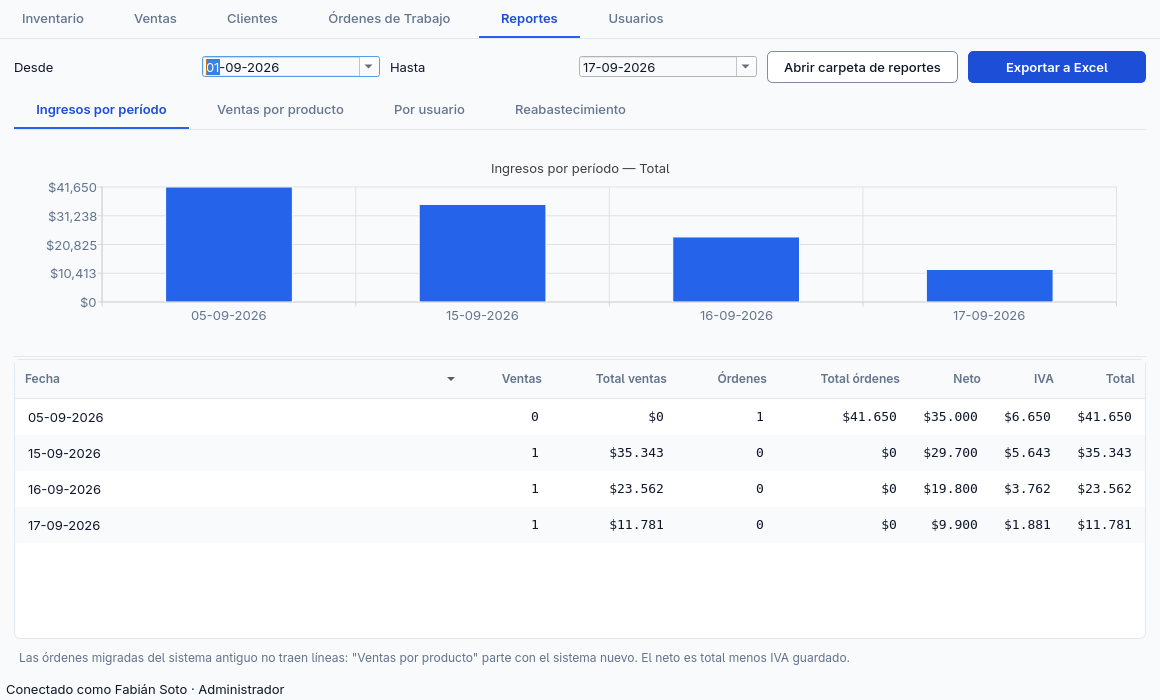
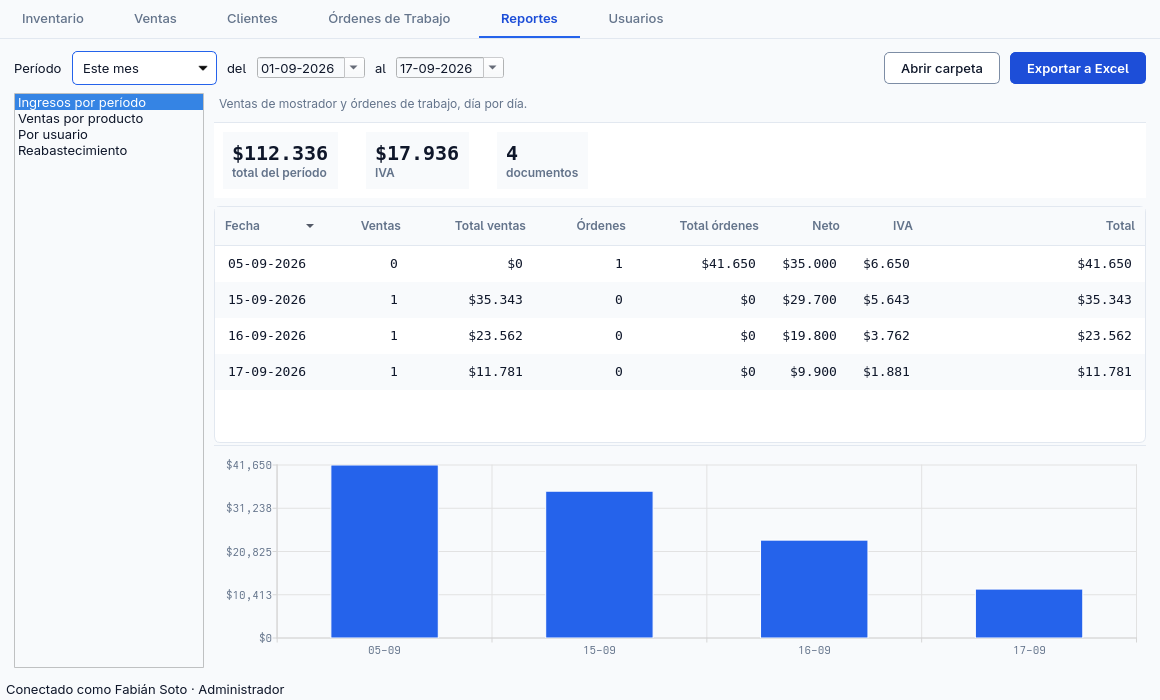
docs: bring the user manual up to the screens that exist
The delivered manual described a WhatsApp button on the Clientes tab
that no longer exists, and said the "Pagada" checkbox was all there was
to paying an order. Its screenshots were older than both changes.

- "Escribir por WhatsApp" moves from Clientes to Órdenes and covers the
  two places the button lives, the templates, and that it does not send:
  it writes the message and the operator presses send.
- "Descuento, folio y pago" explains the deposit and where the balance
  is charged; the history section explains the Abonada state; the detail
  section explains "Registrar pago".
- Inventario mentions the valuation at cost and who sees it.
- FAQ: the only thing a saved order takes is a payment.

capturas.py was broken since the Reportes rework (ReportesWidget has a
list, not tabs), so it died before the last six images. It now also
seeds paid, partly paid and unpaid orders, which is what the manual
shows. The PDFs are not rebuilt in this commit.

diff --git a/docs/manuales/manual-usuario.tex b/docs/manuales/manual-usuario.tex
@@ -76,6 +76,13 @@ superior: sirve el nombre, la marca o la categoría, sin importar tildes ni
 mayúsculas. La casilla \textbf{Solo stock crítico} deja a la vista los productos
 que están en su mínimo o por debajo.
 
+Al pie de la pantalla, el resumen dice cuántos productos hay a la vista y
+cuántos están bajo su mínimo. Para el supervisor y el administrador dice además
+\textbf{cuánto vale a precio costo lo que está listado}: sin filtro es la bodega
+entera y, con una búsqueda puesta, lo que vale esa marca o esa categoría. Va a
+costo porque es la plata que está inmovilizada en la repisa, no lo que se va a
+facturar por ella.
+
 Al elegir un producto, abajo aparece su \textbf{Kardex}: cada entrada, cada
 salida por venta o por orden, con la fecha, la cantidad, el saldo que quedó y
 quién lo hizo. Ese historial no se puede editar —es el registro auditable del
@@ -181,12 +188,6 @@ Cada vehículo cuelga de un cliente y se identifica por su patente, que es únic
 en todo el sistema. Además de marca, modelo y año, la ficha guarda el tipo, la
 versión, el VIN y el número de motor, que es lo que traía el sistema anterior.
 
-\subsection{Escribir por WhatsApp}
-
-Con un cliente elegido, el botón \textbf{WhatsApp} abre la conversación con su
-teléfono, para avisarle que el auto está listo. El botón está apagado si el
-cliente no tiene un número que parezca un celular chileno.
-
 \section{Órdenes de trabajo}
 
 \pantalla{orden}{Orden en proceso. La tarjeta superior dice de qué vehículo se
@@ -224,7 +225,13 @@ calcula sobre lo que efectivamente se cobra, ya descontado.
 
 El \textbf{folio de Mercado Público} se llena solo en las órdenes
 institucionales; es lo que después permite separarlas de los clientes normales
-en el historial. La casilla \textbf{Pagada} deja constancia del pago.
+en el historial.
+
+El pago se anota al cerrar la orden. Si el cliente paga todo, se marca la
+casilla \textbf{Pagada}. Si paga una parte —un abono al dejar el auto y el resto
+al retirarlo— se escribe lo que dejó en \textbf{Abono}, que no acepta más que el
+total de la orden. El saldo se cobra después, desde el detalle de la orden en el
+historial; no hay que anotarlo en ninguna parte ni llevar la cuenta a mano.
 
 \subsection{Historial y PDF para el cliente}
 
@@ -235,11 +242,44 @@ El historial se busca por número de orden, patente o cliente, y el filtro de la
 derecha separa \emph{Mercado Público} de \emph{Clientes}. Con doble clic se abre
 el detalle de la orden.
 
+La columna \textbf{Estado} dice cómo va el cobro: \emph{Pagada},
+\emph{No pagada}, o \emph{Abonada} cuando quedó a medio pagar —poniendo el
+cursor encima aparece cuánto abonó y cuánto debe.
+
 \dialogo{dialogo_detalle_orden}{Detalle de una orden guardada.}
 
 Desde ahí, \textbf{Exportar PDF} genera el documento para el cliente, con el
 desglose de insumos y servicios, el descuento, el IVA y el total. Se guarda en
 \texttt{Documentos\textbackslash Lubri-Express\textbackslash Órdenes}.
+
+\textbf{Registrar pago} anota lo que el cliente paga ahora. Viene propuesto el
+saldo completo, que es el caso de todos los días —viene a buscar el auto y paga
+lo que debe—, y se puede escribir menos si deja otro abono. Los pagos se suman y
+no se corrigen: la orden pasa a \emph{Pagada} sola, cuando lo abonado alcanza el
+total. Mientras quede saldo, el PDF del cliente muestra lo abonado y lo que
+falta.
+
+\subsection{Avisar al cliente por WhatsApp}
+
+El botón \textbf{Avisar por WhatsApp} está en dos lugares, y los dos son la
+orden: en la tarjeta del vehículo mientras la orden está abierta, para contar
+cómo va el trabajo, y en el detalle de una orden guardada, que es desde donde se
+avisa que el auto está listo —ahí el mensaje sale citando el número de la OT.
+
+Se elige una de las cuatro plantillas —\emph{Listo para retiro}, \emph{Trabajo
+en curso}, \emph{Requiere su autorización}, \emph{Esperando repuesto}— y el
+mensaje aparece redactado, con el nombre del cliente y su vehículo.
+\textbf{Se puede editar antes de mandarlo}: la plantilla está para no escribir lo
+mismo veinte veces al día, no para mandarla a ciegas.
+
+\textbf{Abrir en WhatsApp} abre WhatsApp —el de escritorio si está instalado, o
+WhatsApp Web— con el mensaje ya escrito en la conversación. \emph{No lo envía}:
+el último clic lo da quien atiende, que es quien sabe si el auto está listo de
+verdad.
+
+El botón está apagado si el cliente no tiene registrado un celular chileno; un
+teléfono fijo no sirve, WhatsApp abriría una conversación que no existe. El
+número se corrige en la ficha del cliente, en \textbf{Clientes}.
 
 \section{Reportes}
 
@@ -293,7 +333,8 @@ por categoría (sección 2.4).
 
 \subsection*{Me equivoqué en una orden ya guardada}
 Las órdenes no se editan: son el registro de lo que se hizo. Si hay que corregir
-el inventario, se hace con un ajuste por recuento, que deja constancia.
+el inventario, se hace con un ajuste por recuento, que deja constancia. Lo único
+que se le agrega a una orden guardada es un pago.
 
 \subsection*{El sistema dice que no se pudo conectar a la base de datos}
 Es un problema de instalación, no de uso. Está en el Manual técnico.

diff --git a/docs/manuales/capturas.py b/docs/manuales/capturas.py
@@ -31,7 +31,7 @@ for nombre in ("warning", "critical", "information"):
 from src.auth import Sesion, hash_password  # noqa: E402
 from src.database import SessionLocal  # noqa: E402
 from src.models import (  # noqa: E402
-    Cliente, DetalleOrden, DetalleVenta, KardexMovimiento, Orden, Producto,
+    Cliente, DetalleOrden, DetalleVenta, KardexMovimiento, Orden, PagoOrden, Producto,
     Servicio, Ubicacion, Usuario, Vehiculo, Venta,
 )
 from src.ui.tema import aplicar  # noqa: E402
@@ -113,7 +113,7 @@ def sembrar() -> dict:
                               fecha_creacion=ahora - timedelta(days=12 * (i + 1) + j * 40),
                               kilometraje_ingreso=45000 + i * 12000 + j * 8000,
                               subtotal=neto, impuesto=iva, total_final=neto + iva,
-                              estado_pago=True, notas="Nivel de Combustible: Medio")
+                              notas="Nivel de Combustible: Medio")
                 db.add(orden); db.flush()
                 db.add_all([
                     DetalleOrden(orden=orden, producto=productos[j], cantidad=1,
@@ -121,6 +121,13 @@ def sembrar() -> dict:
                     DetalleOrden(orden=orden, servicio=servicios[j], cantidad=1,
                                  precio_unitario_cobrado=servicios[j].precio_venta),
                 ])
+                # El estado de pago no se escribe: sale de los abonos. Casi
+                # todas se pagan al retirar el auto; una queda abonada y otra
+                # sin pagar, que es lo que el manual muestra en el historial y
+                # en el detalle de la orden.
+                pagado = {(0, 0): neto + iva - 18000, (1, 0): 0}.get((i, j), neto + iva)
+                if pagado:
+                    db.add(PagoOrden(orden=orden, usuario=orden.usuario, monto=pagado))
         for n in range(3):
             neto = 9900 * (n + 1)
             venta = Venta(usuario=mesero, cliente=vehiculos[n].cliente,
@@ -175,7 +182,7 @@ def capturar(datos: dict) -> None:
 
     v.pestanias.setCurrentWidget(v.reportes)
     guardar(v, "reportes")
-    v.reportes.pestanas.setCurrentIndex(3)
+    v.reportes.lista.setCurrentRow(3)   # Reabastecimiento
     guardar(v, "reabastecimiento")
     v.pestanias.setCurrentWidget(v.usuarios); v.usuarios.tabla.selectRow(0)
     guardar(v, "usuarios")
